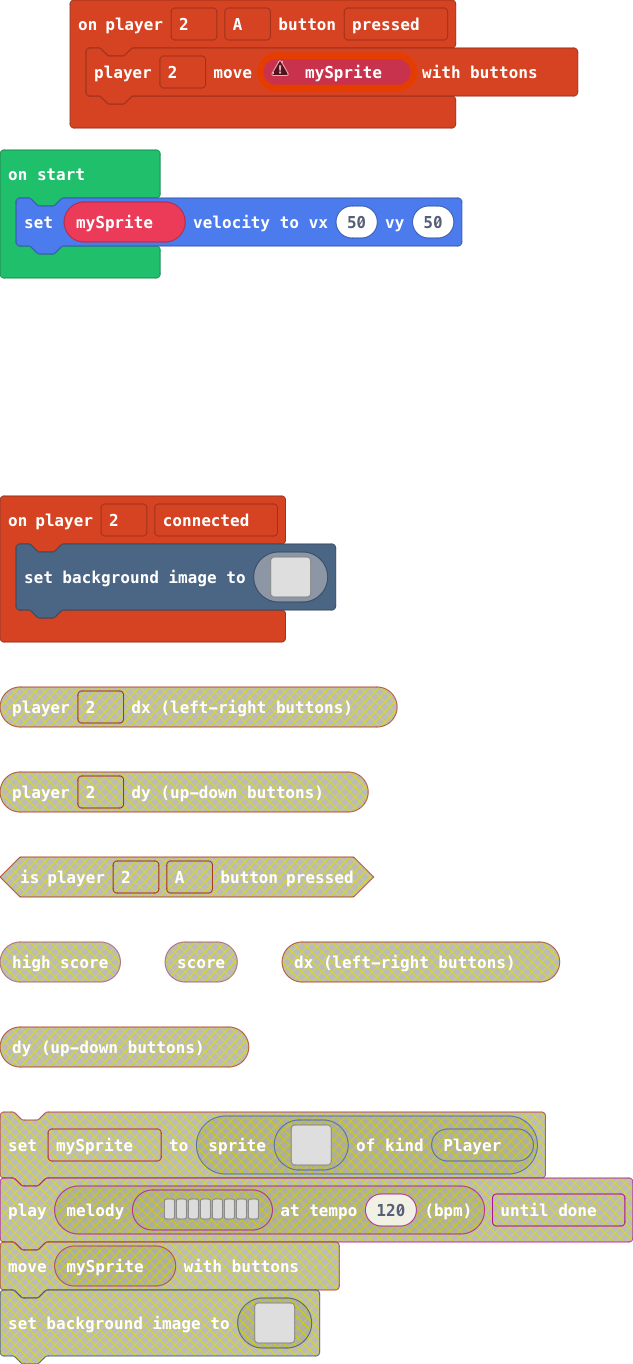
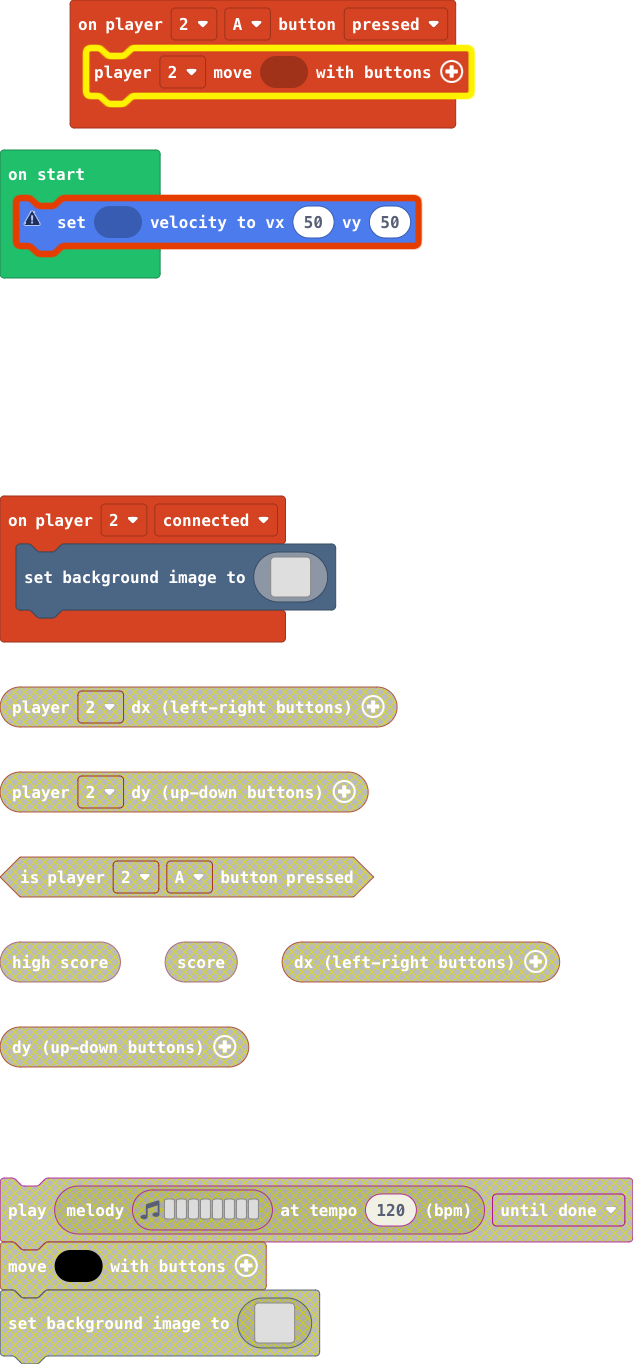
Update main.blocks, main.ts

diff --git a/main.ts b/main.ts
@@ -1,5 +1,5 @@
 controller.player2.onButtonEvent(ControllerButton.A, ControllerButtonEvent.Pressed, function () {
-    controller.player2.moveSprite(mySprite)
+    controller.player2.moveSprite(null)
 })
 controller.player2.onEvent(ControllerEvent.Connected, function () {
     scene.setBackgroundImage(img`
@@ -125,5 +125,4 @@ controller.player2.onEvent(ControllerEvent.Connected, function () {
         ................................................................................................................................................................
         `)
 })
-let mySprite: Sprite = null
-mySprite.setVelocity(50, 50)
+null.setVelocity(50, 50)
